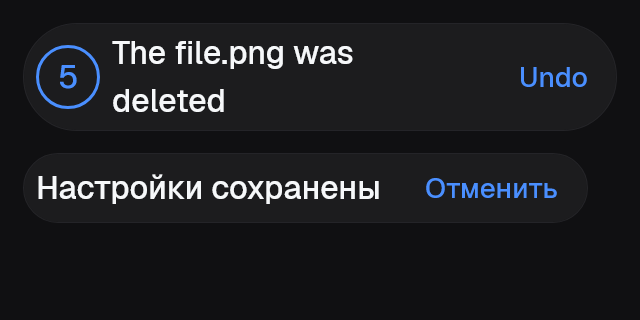
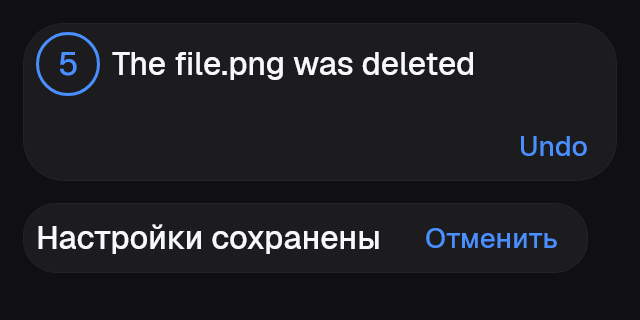
fix(native): keep Snackbar readable at phone text scales

diff --git a/native/compose/src/desktopTest/kotlin/pics/lab/ui/SnackbarRenderTest.kt b/native/compose/src/desktopTest/kotlin/pics/lab/ui/SnackbarRenderTest.kt
@@ -14,8 +14,15 @@ import androidx.compose.runtime.setValue
 import androidx.compose.ui.ImageComposeScene
 import androidx.compose.ui.Modifier
 import androidx.compose.ui.geometry.Offset
+import androidx.compose.ui.focus.FocusRequester
+import androidx.compose.ui.focus.focusRequester
 import androidx.compose.ui.input.pointer.PointerEventType
 import androidx.compose.ui.platform.LocalFontFamilyResolver
+import androidx.compose.ui.semantics.SemanticsActions
+import androidx.compose.ui.semantics.SemanticsNode
+import androidx.compose.ui.semantics.SemanticsProperties
+import androidx.compose.ui.semantics.getOrNull
+import androidx.compose.ui.text.TextLayoutResult
 import androidx.compose.ui.unit.Density
 import androidx.compose.ui.unit.dp
 import androidx.lifecycle.Lifecycle
@@ -30,6 +37,96 @@ import kotlin.test.assertEquals
 
 /** CPU raster snapshots: ImageComposeScene never creates an OS window. */
 class SnackbarRenderTest {
+    private fun nodes(node: SemanticsNode): List<SemanticsNode> = listOf(node) + node.children.flatMap(::nodes)
+
+    @Test fun allTimerPosesFollowTheSourceArcDirection() {
+        val preferences = LabPreferences(reducedMotion = true)
+        val theme = LabThemeState(initialLabColors(preferences), preferences)
+        val owner = object : LifecycleOwner {
+            override val lifecycle = LifecycleRegistry.createUnsafe(this)
+                .apply { currentState = Lifecycle.State.RESUMED }
+        }
+        val scene = ImageComposeScene(400, 100) {
+            CompositionLocalProvider(LocalLifecycleOwner provides owner) {
+                LabTheme(theme, labFontFamily()) {
+                    LabScene(Modifier.fillMaxSize(), background = {
+                        Box(Modifier.fillMaxSize().background(theme.colors["bg-primary"]))
+                    }) {
+                        LabSnackbar("The file.png was deleted", Modifier.padding(12.dp),
+                            actionLabel = "Undo", onAction = {})
+                    }
+                }
+            }
+        }
+        val directory = File("build/snackbar-render").apply { mkdirs() }
+        try {
+            for (pose in 5 downTo 1) {
+                val until = System.nanoTime() + (if (pose == 5) 150L else 1000L) * 1_000_000
+                do { scene.render().close(); Thread.sleep(10) } while (System.nanoTime() < until)
+                scene.render().use { image ->
+                    image.encodeToData()!!.use { File(directory, "snackbar-timer-$pose.png").writeBytes(it.bytes) }
+                    if (pose == 1) {
+                        val bitmap = org.jetbrains.skia.Bitmap.makeFromImage(image)
+                        try {
+                            val left = bitmap.getColor(30, 28)
+                            val right = bitmap.getColor(50, 28)
+                            assertTrue(((left shr 16) and 255) > ((left shr 8) and 255) + 50,
+                                "The remaining danger arc must occupy the upper-left quadrant")
+                            assertTrue(kotlin.math.abs(((right shr 16) and 255) - ((right shr 8) and 255)) < 10,
+                                "The upper-right quadrant must be empty in the last source pose")
+                        } finally { bitmap.close() }
+                    }
+                }
+            }
+        } finally { scene.close() }
+    }
+
+    @Test fun actionFocusPausesDeadlineAndReturnsToTheInitiator() {
+        val preferences = LabPreferences(reducedMotion = true)
+        val theme = LabThemeState(initialLabColors(preferences), preferences)
+        val owner = object : LifecycleOwner {
+            override val lifecycle = LifecycleRegistry.createUnsafe(this)
+                .apply { currentState = Lifecycle.State.RESUMED }
+        }
+        val trigger = FocusRequester()
+        var open by mutableStateOf(true)
+        var actions = 0
+        var dismissals = 0
+        val scene = ImageComposeScene(640, 200) {
+            CompositionLocalProvider(LocalLifecycleOwner provides owner) {
+                LabTheme(theme) {
+                    LabScene(Modifier.fillMaxSize(), background = {}) {
+                        Column {
+                            LabButton("Редактировать", {}, Modifier.focusRequester(trigger))
+                            LabSnackbar("Сохранено", open = open, durationMillis = 500,
+                                actionLabel = "Отменить", onAction = { actions++ },
+                                onDismiss = { dismissals++; open = false }, restoreFocus = trigger)
+                        }
+                    }
+                }
+            }
+        }
+        fun pump(milliseconds: Long) {
+            val until = System.nanoTime() + milliseconds * 1_000_000
+            do { scene.render().close(); Thread.sleep(10) } while (System.nanoTime() < until)
+        }
+        fun walk(node: SemanticsNode): List<SemanticsNode> = listOf(node) + node.children.flatMap(::walk)
+        fun named(text: String) = scene.semanticsOwners.flatMap { walk(it.rootSemanticsNode) }
+            .first { node -> node.config.getOrNull(SemanticsProperties.Text)?.any { it.text == text } == true }
+        try {
+            pump(100)
+            val action = named("Отменить")
+            assertTrue(action.config[SemanticsActions.RequestFocus].action!!.invoke())
+            pump(700)
+            assertEquals(0, dismissals, "Keyboard focus must pause the actual timeout")
+            assertTrue(action.config[SemanticsActions.OnClick].action!!.invoke())
+            pump(100)
+            assertEquals(1, actions)
+            assertEquals(1, dismissals)
+            assertEquals(true, named("Редактировать").config.getOrNull(SemanticsProperties.Focused))
+        } finally { scene.close() }
+    }
+
     @Test fun hoverAndInactiveTimePauseTheActualComponentDeadline() {
         val preferences = LabPreferences(reducedMotion = true)
         val theme = LabThemeState(initialLabColors(preferences), preferences)
@@ -78,11 +175,11 @@ class SnackbarRenderTest {
             override val lifecycle = LifecycleRegistry.createUnsafe(this)
                 .apply { currentState = Lifecycle.State.STARTED }
         }
-        for (appearance in LabAppearance.entries) for (scale in listOf(1f, 1.25f, 2f)) {
+        for (appearance in LabAppearance.entries) for (scale in listOf(1f, 1.25f, 2f)) for (width in listOf(640, 360)) {
             val preferences = LabPreferences(appearance = appearance, reducedMotion = true)
             val theme = LabThemeState(initialLabColors(preferences), preferences)
             val loaded = AtomicBoolean(false)
-            val scene = ImageComposeScene(640, 320, Density(1f, scale)) {
+            val scene = ImageComposeScene(width, if (width == 360) 800 else 320, Density(1f, scale)) {
                 CompositionLocalProvider(LocalLifecycleOwner provides owner) {
                     val font = labFontFamily()
                     val resolver = LocalFontFamilyResolver.current
@@ -92,7 +189,8 @@ class SnackbarRenderTest {
                             Box(Modifier.fillMaxSize().background(theme.colors["bg-primary"]))
                         }) {
                             Column(Modifier.padding(24.dp), verticalArrangement = Arrangement.spacedBy(24.dp)) {
-                                LabSnackbar("The file.png was deleted", actionLabel = "Undo", onAction = {})
+                                LabSnackbar(if (width == 360) "Изменения сохранены" else "The file.png was deleted",
+                                    actionLabel = if (width == 360) "Отменить" else "Undo", onAction = {})
                                 LabSnackbar("Настройки сохранены", durationMillis = 0,
                                     actionLabel = "Отменить", onAction = {})
                             }
@@ -101,7 +199,7 @@ class SnackbarRenderTest {
                 }
             }
             try {
-                val file = File(evidence, "snackbar-${appearance.name.lowercase()}-${(scale * 100).toInt()}.png")
+                val file = File(evidence, "snackbar-${appearance.name.lowercase()}-${(scale * 100).toInt()}${if (width == 360) "-narrow" else ""}.png")
                 var previous: ByteArray? = null
                 var unchanged = 0
                 for (frame in 0 until 80) {
@@ -113,6 +211,15 @@ class SnackbarRenderTest {
                 }
                 assertTrue(unchanged >= 4, "Fonts and actual pixels must settle")
                 assertTrue(file.length() > 1000, "The CPU renderer must produce actual pixels")
+                if (width == 360) {
+                    val message = scene.semanticsOwners.flatMap { nodes(it.rootSemanticsNode) }.first {
+                        it.config.getOrNull(SemanticsProperties.Text)?.any { text -> text.text == "Изменения сохранены" } == true
+                    }
+                    val layouts = mutableListOf<TextLayoutResult>()
+                    assertTrue(message.config[SemanticsActions.GetTextLayoutResult].action!!.invoke(layouts))
+                    assertTrue(layouts.single().lineCount <= 2,
+                        "Two short words must remain readable in at most two lines on a phone: $appearance/$scale")
+                }
             } finally { scene.close() }
         }
     }

diff --git a/native/compose/src/commonMain/kotlin/pics/lab/ui/LabSnackbar.kt b/native/compose/src/commonMain/kotlin/pics/lab/ui/LabSnackbar.kt
@@ -29,6 +29,7 @@ import androidx.compose.ui.geometry.Size
 import androidx.compose.ui.graphics.StrokeCap
 import androidx.compose.ui.graphics.drawscope.Stroke
 import androidx.compose.ui.graphics.graphicsLayer
+import androidx.compose.ui.layout.Layout
 import androidx.compose.ui.platform.LocalAccessibilityManager
 import androidx.compose.ui.platform.LocalDensity
 import androidx.compose.ui.semantics.LiveRegionMode
@@ -37,6 +38,9 @@ import androidx.compose.ui.semantics.liveRegion
 import androidx.compose.ui.semantics.semantics
 import androidx.compose.ui.text.font.FontWeight
 import androidx.compose.ui.unit.dp
+import androidx.compose.ui.unit.Constraints
+import androidx.compose.ui.unit.constrainWidth
+import androidx.compose.ui.unit.constrainHeight
 import androidx.compose.ui.unit.sp
 import androidx.lifecycle.Lifecycle
 import androidx.lifecycle.compose.LocalLifecycleOwner
@@ -107,23 +111,31 @@ public fun LabSnackbar(
         fontWeight = FontWeight(LabComponents.SnackbarFontWeight.toInt()),
         letterSpacing = 0.sp,
     )
+    val fontScale = LocalDensity.current.fontScale
+    val timerSize = LabComponents.SnackbarTimerSize.dp * fontScale.coerceAtLeast(1f)
+    val button = LabComponents.ButtonS
+    val actionHeight = if (actionLabel == null) 0f else maxOf(button.height,
+        maxOf(button.icon, button.lineHeight * fontScale) + button.paddingY * 2)
+    // Preserve the one-line capsule's corners when text wraps. A radius of half
+    // the entire multiline height would clip the content into an enormous oval.
+    val rowHeight = maxOf(LabComponents.SnackbarLineHeight * fontScale, actionHeight,
+        if (duration == 0L) 0f else timerSize.value)
+    val radius = minOf(LabComponents.SnackbarRadius, rowHeight / 2 + LabComponents.SnackbarPaddingY)
     LabSurface(
         LabComponents.SnackbarMaterial,
         modifier.graphicsLayer { translationY = y.value * density }
             .hoverable(interactions).onFocusChanged { focused = it.hasFocus },
         material,
-        RoundedCornerShape(LabComponents.SnackbarRadius.dp),
+        RoundedCornerShape(radius.dp),
         strokeWidth = LabComponents.SnackbarStrokeWidth.dp,
         strokeColor = colors["border-base"],
     ) {
-        Row(
-            Modifier.padding(start = LabComponents.SnackbarPaddingStart.dp,
+        Layout(
+            modifier = Modifier.padding(start = LabComponents.SnackbarPaddingStart.dp,
                 end = LabComponents.SnackbarPaddingEnd.dp,
                 top = LabComponents.SnackbarPaddingY.dp, bottom = LabComponents.SnackbarPaddingY.dp),
-            horizontalArrangement = Arrangement.spacedBy(LabComponents.SnackbarActionGap.dp),
-            verticalAlignment = Alignment.CenterVertically,
-        ) {
-            Row(Modifier.weight(1f, fill = false),
+            content = {
+            Row(
                 horizontalArrangement = Arrangement.spacedBy(LabComponents.SnackbarLabelGap.dp),
                 verticalAlignment = Alignment.CenterVertically) {
                 if (duration != 0L) {
@@ -132,12 +144,11 @@ public fun LabSnackbar(
                     val pose = ceil(remaining.toDouble() / duration * poses.size).toInt().coerceIn(1, poses.size)
                     val color = colors[if (seconds <= LabComponents.SnackbarTimerWarningSeconds)
                         "label-danger" else "label-accent"]
-                    val timerSize = LabComponents.SnackbarTimerSize.dp * LocalDensity.current.fontScale.coerceAtLeast(1f)
                     Box(Modifier.size(timerSize).clearAndSetSemantics {},
                         contentAlignment = Alignment.Center) {
                         Canvas(Modifier.matchParentSize()) {
                             val stroke = LabComponents.SnackbarTimerStrokeWidth.dp.toPx()
-                            drawArc(color, -90f, poses[poses.size - pose], false,
+                            drawArc(color, -90f, -poses[poses.size - pose], false,
                                 Offset(stroke / 2, stroke / 2), Size(size.width - stroke, size.height - stroke),
                                 style = Stroke(stroke, cap = StrokeCap.Round))
                         }
@@ -157,6 +168,24 @@ public fun LabSnackbar(
                 }
             }, kind = LabButtonKind.Ghost, intent = LabIntent.Accent,
                 size = LabControlSize.Small, loading = actionPending)
+            },
+        ) { measurables, constraints ->
+            val loose = constraints.copy(minWidth = 0, minHeight = 0)
+            val action = measurables.getOrNull(1)?.measure(loose)
+            val gap = if (action == null) 0 else LabComponents.SnackbarActionGap.dp.roundToPx()
+            val naturalLabelWidth = measurables[0].maxIntrinsicWidth(Constraints.Infinity)
+            val stacked = action != null && naturalLabelWidth.toLong() + gap + action.width > constraints.maxWidth
+            val label = measurables[0].measure(loose.copy(maxWidth =
+                if (stacked) constraints.maxWidth else (constraints.maxWidth - gap - (action?.width ?: 0)).coerceAtLeast(0)))
+            val width = constraints.constrainWidth(if (stacked) constraints.maxWidth
+                else label.width + gap + (action?.width ?: 0))
+            val height = constraints.constrainHeight(if (stacked) label.height + gap + action.height
+                else maxOf(label.height, action?.height ?: 0))
+            layout(width, height) {
+                label.placeRelative(0, if (stacked) 0 else (height - label.height) / 2)
+                action?.placeRelative(width - action.width,
+                    if (stacked) label.height + gap else (height - action.height) / 2)
+            }
         }
     }
 }

diff --git a/native/compose/scripts/verify-linux-accessibility.py b/native/compose/scripts/verify-linux-accessibility.py
@@ -163,6 +163,14 @@ try:
 
         wrapper = Path("/usr/share/java/java-atk-wrapper.jar")
         assert wrapper.is_file(), "Install libatk-wrapper-java-jni before verification"
+        # Temurin's packaged JVM does not add Debian's JNI directory to its
+        # library search path. Resolve the installed native half of this bridge.
+        files = subprocess.check_output(["dpkg-query", "-L", "libatk-wrapper-java-jni"], text=True)
+        native_wrapper = next(Path(name) for name in files.splitlines() if name.endswith("/libatk-wrapper.so"))
+        assert native_wrapper.is_file(), "The system accessibility JNI library is missing"
+        environment["LD_LIBRARY_PATH"] = ":".join([
+            str(native_wrapper.parent), environment.get("LD_LIBRARY_PATH", ""),
+        ])
         environment["JAVA_TOOL_OPTIONS"] = " ".join([
             environment.get("JAVA_TOOL_OPTIONS", ""),
             f"--module-path={wrapper}", "--add-modules=ALL-MODULE-PATH",

diff --git a/native/compose/README.md b/native/compose/README.md
@@ -67,8 +67,11 @@ AppData/Roaming, Application Support или XDG_CONFIG_HOME. Это хранен
 
 `LabSnackbar` использует общий `packages/tokens/src/components.json`: Elevated,
 капсула, отступы 12/8/8, Geist 16/24/500, штатная small/accent/ghost-кнопка.
-Таймер 32 dp / stroke 3 dp имеет пять авторских поз; последние две секунды
-выделяются danger. При системном масштабе текста круг растёт вместе с цифрой.
+Таймер 32 dp / stroke 3 dp имеет пять авторских поз против часовой стрелки;
+последние две секунды выделяются danger. При системном масштабе текста круг
+растёт вместе с цифрой. Если строка с действием не помещается по её реальной
+длине, действие переходит ниже. Радиус сохраняет размер однострочной капсулы,
+чтобы многострочный текст не обрезался углами.
 Сообщение объявляется в polite live region; таймер исключён из accessibility tree.
 
 ```kotlin
@@ -88,11 +91,15 @@ LabSnackbar(
 Действие вызывается до `onDismiss`. Для асинхронного действия установите
 `dismissOnAction=false`, передайте `actionPending` и закройте сообщение после
 результата операции. Пример настроек действительно отменяет последнюю запись;
-сравнение и восстановление выполняются одной транзакцией, последующая запись
-другого окна сохраняется. При ошибке Undo доступен повтор.
+сравнение версии и восстановление выполняются одной транзакцией, последующая
+запись в том же WorkspaceStore сохраняется. При ошибке Undo доступен повтор.
+Desktop-пример использует SingleProcessDataStore; параллельное редактирование
+одного файла разными процессами не поддерживается.
 
 `SnackbarRenderTest` создаёт только CPU `ImageComposeScene`, без окон: обе темы
-при 100/125/200%. PNG сохраняются в `build/snackbar-render`. Платформенные
+на ширине 640/360 dp при 100/125/200% и все пять поз таймера. Узкая версия
+проверяет число строк сообщения, последний сектор — реальные пиксели слева/справа.
+PNG сохраняются в `build/snackbar-render`. Платформенные
 сценарии проходят save → Undo → save → restart через системную доступность.
 Источники: [Figma](https://www.figma.com/design/LuaiBd4anRi4DMZayKAnY2/Lab-UI?node-id=6109-6735),
 [Compose Lifecycle](https://kotlinlang.org/docs/multiplatform/compose-lifecycle.html).

diff --git a/native/compose/evidence/snackbar-20261117/README.md b/native/compose/evidence/snackbar-20261117/README.md
@@ -2,9 +2,15 @@
 
 `SnackbarRenderTest` создаёт CPU `ImageComposeScene` без окна. Перед сохранением
 ожидаются Geist и четыре одинаковых кадра. PNG показывают первую позу 5 секунд
-и постоянное сообщение без таймера; обе темы, системный масштаб текста
-100/125/200%. 100% сохраняет размер таймера 32 dp; при увеличении текста круг
-растёт вместе с цифрой, чтобы она не пересекала обводку.
+и постоянное сообщение без таймера; обе темы, ширину 640/360 dp и системный
+масштаб текста 100/125/200%. `*-narrow.png` проверяет телефон: сообщение
+сохраняется в одной или двух строках, действие переносится ниже по доступному
+месту. Радиус углов следует высоте однострочной капсулы, не всей многострочной
+области. При увеличении текста круг растёт вместе с цифрой.
+
+`snackbar-timer-5…1.png` — реальное прохождение пяти состояний. Последняя поза
+проверяется по пикселям: danger-сектор сверху слева, справа — пустая область.
+Это ловит ошибку направления sweep, которая не видна на полном круге.
 
 Профиль: `packages/tokens/src/components.json.snackbar`, Figma master 6109:6735,
 dark 7101:54738, timer 6109:6708. `figma-source.json` — неизменённая read-only
@@ -20,6 +26,10 @@ native/compose/gradlew.bat -p native/compose :desktopTest --tests pics.lab.ui.La
 Пауза и срок проверяются отдельно, а системные взаимодействия и сохранение →
 Undo → сохранение → перезапуск — в Native Compose CI. Эти изображения сами
 по себе не доказывают прохождение Android/iOS/Orca и не закрывают полный каталог.
+
+Независимое ревью исходного 2e41167 нашло обратное направление дуги и столбец
+букв на 360 dp / 200%. Оба замечания проверены по Figma/рендеру и исправлены;
+проверка строк и пикселей теперь воспроизводит обе исходные ошибки.
 
 Источники: [Figma](https://www.figma.com/design/LuaiBd4anRi4DMZayKAnY2/Lab-UI?node-id=6109-6735),
 [Compose Lifecycle](https://kotlinlang.org/docs/multiplatform/compose-lifecycle.html).
